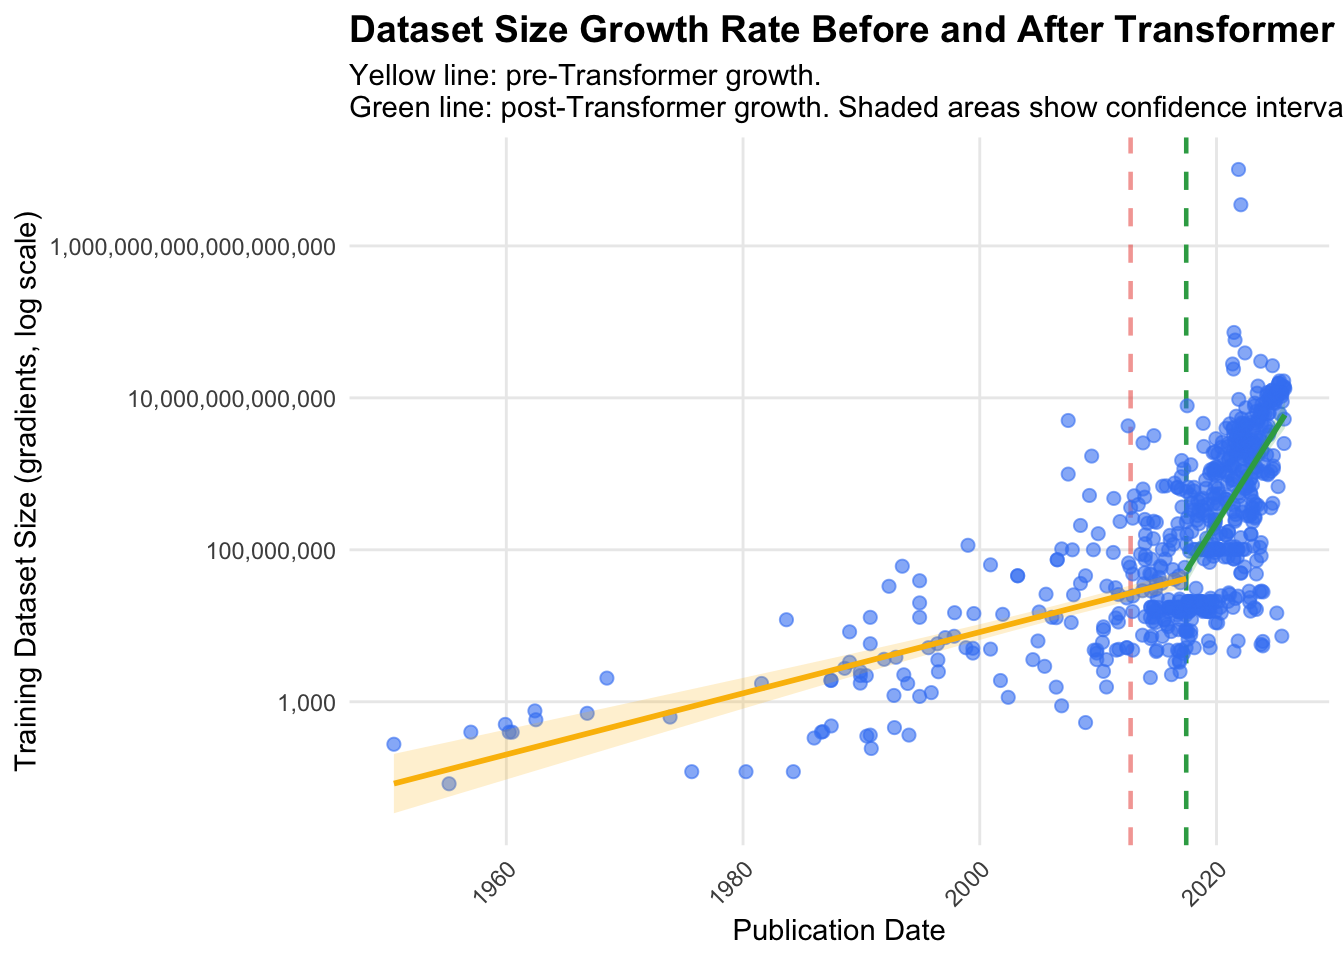
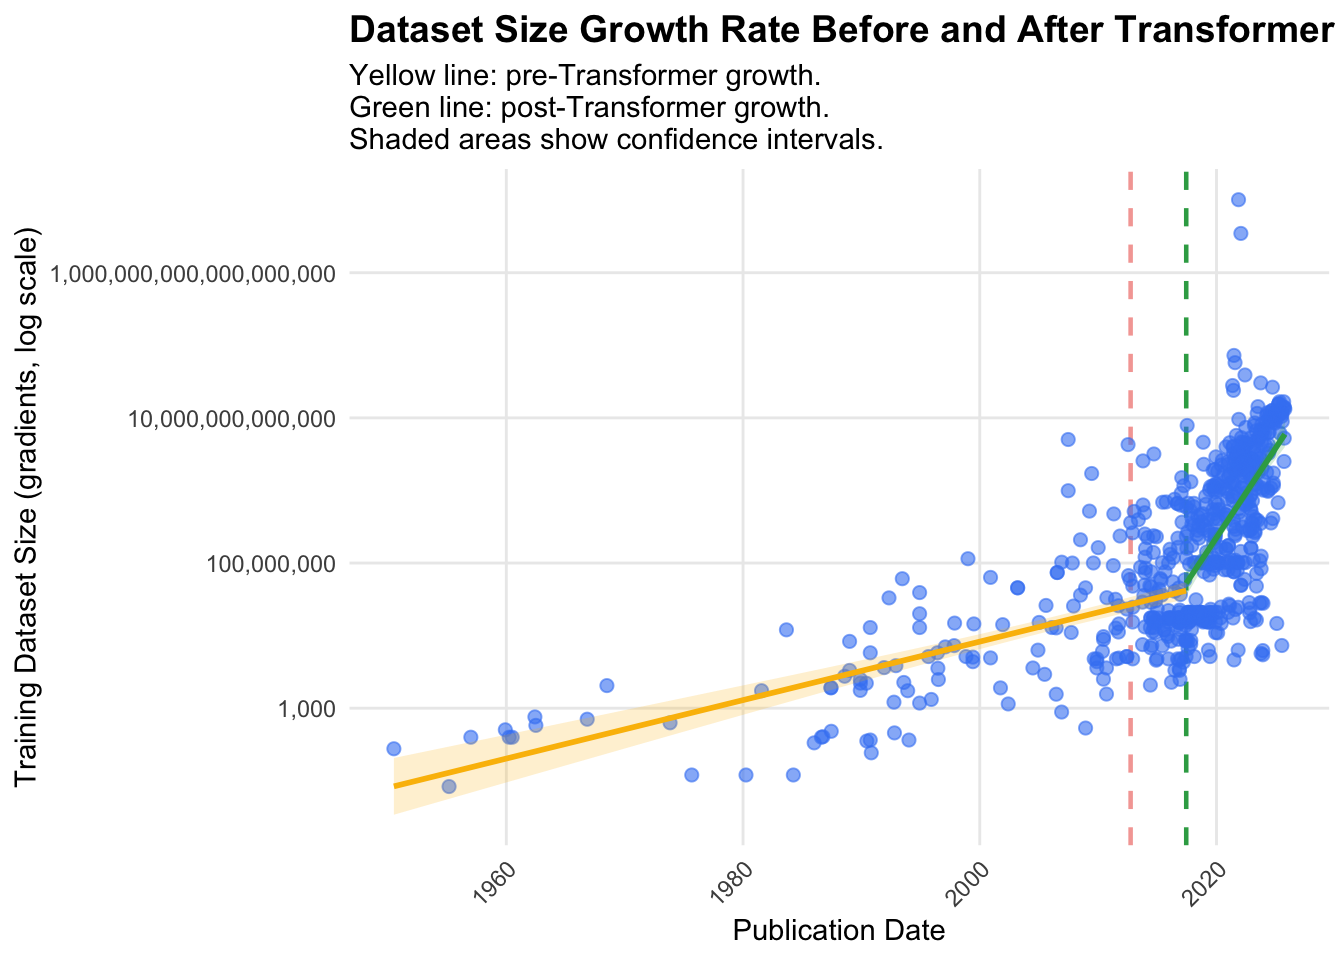
moving csv files into the correct place

diff --git a/docs/results.html b/docs/results.html
@@ -227,7 +227,7 @@ pre > code.sourceCode > span > a:first-child::before { text-decoration: underlin
 <summary>Code</summary>
 <div class="code-copy-outer-scaffold"><div class="sourceCode cell-code" id="cb1"><pre class="sourceCode r code-with-copy"><code class="sourceCode r"><span id="cb1-1"><a href="#cb1-1" aria-hidden="true" tabindex="-1"></a>compute_spend <span class="ot">&lt;-</span> <span class="fu">read_csv</span>(<span class="st">"./Data/ai_companies_dataset/ai_companies_compute_spend.csv"</span>)</span>
 <span id="cb1-2"><a href="#cb1-2" aria-hidden="true" tabindex="-1"></a></span>
-<span id="cb1-3"><a href="#cb1-3" aria-hidden="true" tabindex="-1"></a>usage_reports <span class="ot">&lt;-</span> <span class="fu">read_csv</span>(<span class="st">"ai_companies_usage_reports_clean.csv"</span>)</span>
+<span id="cb1-3"><a href="#cb1-3" aria-hidden="true" tabindex="-1"></a>usage_reports <span class="ot">&lt;-</span> <span class="fu">read_csv</span>(<span class="st">"./Data/ai_companies_usage_reports_clean.csv"</span>)</span>
 <span id="cb1-4"><a href="#cb1-4" aria-hidden="true" tabindex="-1"></a></span>
 <span id="cb1-5"><a href="#cb1-5" aria-hidden="true" tabindex="-1"></a><span class="co"># Create compute_stacked first</span></span>
 <span id="cb1-6"><a href="#cb1-6" aria-hidden="true" tabindex="-1"></a>compute_stacked <span class="ot">&lt;-</span> compute_spend <span class="sc">|&gt;</span></span>
@@ -249,7 +249,7 @@ pre > code.sourceCode > span > a:first-child::before { text-decoration: underlin
 <span id="cb1-22"><a href="#cb1-22" aria-hidden="true" tabindex="-1"></a>  dplyr<span class="sc">::</span><span class="fu">filter</span>(Company <span class="sc">==</span> <span class="st">"OpenAI"</span>,</span>
 <span id="cb1-23"><a href="#cb1-23" aria-hidden="true" tabindex="-1"></a>         Category <span class="sc">%in%</span> <span class="fu">c</span>(<span class="st">"Inference compute spend"</span>))</span>
 <span id="cb1-24"><a href="#cb1-24" aria-hidden="true" tabindex="-1"></a></span>
-<span id="cb1-25"><a href="#cb1-25" aria-hidden="true" tabindex="-1"></a>frontier_merged <span class="ot">&lt;-</span> <span class="fu">read_csv</span>(<span class="st">"./frontier_merged.csv"</span>)</span>
+<span id="cb1-25"><a href="#cb1-25" aria-hidden="true" tabindex="-1"></a>frontier_merged <span class="ot">&lt;-</span> <span class="fu">read_csv</span>(<span class="st">"./Data/frontier_merged.csv"</span>)</span>
 <span id="cb1-26"><a href="#cb1-26" aria-hidden="true" tabindex="-1"></a></span>
 <span id="cb1-27"><a href="#cb1-27" aria-hidden="true" tabindex="-1"></a>df_num <span class="ot">&lt;-</span> frontier_merged <span class="sc">|&gt;</span></span>
 <span id="cb1-28"><a href="#cb1-28" aria-hidden="true" tabindex="-1"></a>  <span class="fu">select</span>(<span class="fu">where</span>(is.numeric)) <span class="sc">|&gt;</span></span>
@@ -294,7 +294,7 @@ pre > code.sourceCode > span > a:first-child::before { text-decoration: underlin
 <span id="cb1-67"><a href="#cb1-67" aria-hidden="true" tabindex="-1"></a>  <span class="fu">slice_head</span>(<span class="at">n =</span> <span class="dv">6</span>) <span class="sc">|&gt;</span></span>
 <span id="cb1-68"><a href="#cb1-68" aria-hidden="true" tabindex="-1"></a>  <span class="fu">pull</span>(Country)</span>
 <span id="cb1-69"><a href="#cb1-69" aria-hidden="true" tabindex="-1"></a></span>
-<span id="cb1-70"><a href="#cb1-70" aria-hidden="true" tabindex="-1"></a>frontier_merged <span class="ot">&lt;-</span> <span class="fu">read_csv</span>(<span class="st">"./frontier_merged.csv"</span>)</span>
+<span id="cb1-70"><a href="#cb1-70" aria-hidden="true" tabindex="-1"></a>frontier_merged <span class="ot">&lt;-</span> <span class="fu">read_csv</span>(<span class="st">"./Data/frontier_merged.csv"</span>)</span>
 <span id="cb1-71"><a href="#cb1-71" aria-hidden="true" tabindex="-1"></a></span>
 <span id="cb1-72"><a href="#cb1-72" aria-hidden="true" tabindex="-1"></a>df_num <span class="ot">&lt;-</span> frontier_merged <span class="sc">|&gt;</span></span>
 <span id="cb1-73"><a href="#cb1-73" aria-hidden="true" tabindex="-1"></a>  <span class="fu">select</span>(<span class="fu">where</span>(is.numeric)) <span class="sc">|&gt;</span></span>
@@ -523,11 +523,11 @@ pre > code.sourceCode > span > a:first-child::before { text-decoration: underlin
 </div>
 </div>
 </div>
-<p>In this graph we visualize the date of model releases (dots) from different leading technolgy and AI companies. Overlayed as dashed lines, we plot the first operational date of GPU clusters from those same companies.</p>
+<p>In this graph we visualize the date of model releases (dots) from different leading technology and AI companies. Overlayed as dashed lines, we plot the first operational date of GPU clusters from those same companies.</p>
 <p>We would expect that model releases are delayed in comparison to GPU cluster opening dates since it would take significant computational resources to train a new model, usually several months of training for the largest models.</p>
 <p>However, we see varied trends across different companies. OpenAI, for example, had released many models before ever opening their first GPU cluster, while Google had many GPU clusters before releasing their first model.</p>
-<p>xAI (behind the Grok set of models) provides and intersting example of a clear cluster-to-model gap. The company seems to follow a very clear trend of having around a half-year delay between cluster opening and model release, with new models being released slightly before or slight after a new cluster becoming operational.</p>
-<p>Overall, the this plot reveals the strengths and weaknesses of different players in the AI ecosystem. Google, being a legacy tech company which has always required heavy computational resouces, already had many compute centers before releasing their first model. Alibaba follows a similar trend. On the other hand, an AI-first company like OpenAI likely had to outsource their model training compute to other companies before having their own clusters.</p>
+<p>xAI (behind the Grok set of models) provides an interesting example of a clear cluster-to-model gap. The company seems to follow a very clear trend of having around a half-year delay between cluster opening and model release, with new models being released slightly before or slight after a new cluster becoming operational.</p>
+<p>Overall, the this plot reveals the strengths and weaknesses of different players in the AI ecosystem. Google, being a legacy tech company which has always required heavy computational resources, already had many compute centers before releasing their first model. Alibaba follows a similar trend. On the other hand, an AI-first company like OpenAI likely had to outsource their model training compute to other companies before having their own clusters.</p>
 </section>
 <section id="cumulative-compute-over-time-by-organization" class="level3" data-number="3.2.2">
 <h3 data-number="3.2.2" class="anchored" data-anchor-id="cumulative-compute-over-time-by-organization"><span class="header-section-number">3.2.2</span> Cumulative Compute Over Time by Organization</h3>
@@ -698,7 +698,7 @@ pre > code.sourceCode > span > a:first-child::before { text-decoration: underlin
 </div>
 </div>
 </div>
-<p>Here plot plot notable companies and the increase in their available compute over time. First note that to improve readability of the graph, we free the y-axis. However, it seems like major companies have increased their compute nearly exponentially. As consitent with the previous graphs, cluster opening time do not follow a predictable pattern in terms of model release, though, generally, it seems like different companies take different approaches in either having built infrascture first or release models first.</p>
+<p>Here plot plot notable companies and the increase in their available compute over time. First note that to improve readability of the graph, we free the y-axis. However, it seems like major companies have increased their compute nearly exponentially. As consistent with the previous graphs, cluster opening time do not follow a predictable pattern in terms of model release, though, generally, it seems like different companies take different approaches in either having built infrastructure first or release models first.</p>
 <div class="cell">
 <details class="code-fold">
 <summary>Code</summary>
@@ -772,7 +772,7 @@ pre > code.sourceCode > span > a:first-child::before { text-decoration: underlin
 </section>
 <section id="dataset-size-over-time" class="level3" data-number="3.2.4">
 <h3 data-number="3.2.4" class="anchored" data-anchor-id="dataset-size-over-time"><span class="header-section-number">3.2.4</span> Dataset Size Over Time</h3>
-<p>Clearly, overall compute available to train model has been increasing at an exponential rate. However have the has this increase in compute been a proactive move to be prepared to train data-intensive models? Or has this been a reactive move in response to models that turned out to be more data intensive than expected?</p>
+<p>Clearly, overall compute available to train model has been increasing at an exponential rate. However has this increase in compute been a proactive move to be prepared to train data-intensive models? Or has this been a reactive move in response to models that turned out to be more data intensive than expected?</p>
 <p>To answer this question, we first need to look at trends in dataset size and model size.</p>
 <div class="cell">
 <details class="code-fold">
@@ -880,7 +880,7 @@ pre > code.sourceCode > span > a:first-child::before { text-decoration: underlin
 </div>
 </div>
 </div>
-<p>However, much of the demand for more data has been driven by new machine learning approaches. First, the advent of deep learning create demand for larger datasets. After, the advent of the transformer architecture allowed feasible training on even larger datasets (parly why large language models are considered “large”). As such, we add two dashed lines, the first being the landmark <a href="https://proceedings.neurips.cc/paper_files/paper/2012/file/c399862d3b9d6b76c8436e924a68c45b-Paper.pdf">AlexNet</a> paper, which ushered in a new era of deep learning critically, thorough the use of GPU training. The green dashed line represent the release of the landmark <a href="https://arxiv.org/abs/1706.03762">Attention Is All You Need</a> paper, which introduced the transformer architecture that underlies large language models today. Adding these seperators, we begin to more clearly see trends in the data. Notably, after the introduction of the transformer, we see a sharp increase in dataset size.</p>
+<p>However, much of the demand for more data has been driven by new machine learning approaches. First, the advent of deep learning create demand for larger datasets. After, the advent of the transformer architecture allowed feasible training on even larger datasets (partly why large language models are considered “large”). As such, we add two dashed lines, the first being the landmark <a href="https://proceedings.neurips.cc/paper_files/paper/2012/file/c399862d3b9d6b76c8436e924a68c45b-Paper.pdf">AlexNet</a> paper, which ushered in a new era of deep learning critically, thorough the use of GPU training. The green dashed line represent the release of the landmark <a href="https://arxiv.org/abs/1706.03762">Attention Is All You Need</a> paper, which introduced the transformer architecture that underlies large language models today. Adding these separators, we begin to more clearly see trends in the data. Notably, after the introduction of the transformer, we see a sharp increase in dataset size.</p>
 </section>
 <section id="dataset-size-growth-rate-before-and-after-transformer" class="level3" data-number="3.2.6">
 <h3 data-number="3.2.6" class="anchored" data-anchor-id="dataset-size-growth-rate-before-and-after-transformer"><span class="header-section-number">3.2.6</span> Dataset Size Growth Rate Before and After Transformer</h3>
@@ -940,7 +940,7 @@ pre > code.sourceCode > span > a:first-child::before { text-decoration: underlin
 <span id="cb17-51"><a href="#cb17-51" aria-hidden="true" tabindex="-1"></a>  <span class="co"># Labels and theme</span></span>
 <span id="cb17-52"><a href="#cb17-52" aria-hidden="true" tabindex="-1"></a>  <span class="fu">labs</span>(</span>
 <span id="cb17-53"><a href="#cb17-53" aria-hidden="true" tabindex="-1"></a>    <span class="at">title =</span> <span class="st">"Dataset Size Growth Rate Before and After Transformer"</span>,</span>
-<span id="cb17-54"><a href="#cb17-54" aria-hidden="true" tabindex="-1"></a>    <span class="at">subtitle =</span> <span class="st">"Yellow line: pre-Transformer growth.</span><span class="sc">\n</span><span class="st">Green line: post-Transformer growth. Shaded areas show confidence intervals."</span>,</span>
+<span id="cb17-54"><a href="#cb17-54" aria-hidden="true" tabindex="-1"></a>    <span class="at">subtitle =</span> <span class="st">"Yellow line: pre-Transformer growth.</span><span class="sc">\n</span><span class="st">Green line: post-Transformer growth.</span><span class="sc">\n</span><span class="st">Shaded areas show confidence intervals."</span>,</span>
 <span id="cb17-55"><a href="#cb17-55" aria-hidden="true" tabindex="-1"></a>    <span class="at">x =</span> <span class="st">"Publication Date"</span>,</span>
 <span id="cb17-56"><a href="#cb17-56" aria-hidden="true" tabindex="-1"></a>    <span class="at">y =</span> <span class="st">"Training Dataset Size (gradients, log scale)"</span></span>
 <span id="cb17-57"><a href="#cb17-57" aria-hidden="true" tabindex="-1"></a>  ) <span class="sc">+</span></span>
@@ -960,7 +960,7 @@ pre > code.sourceCode > span > a:first-child::before { text-decoration: underlin
 </div>
 </div>
 </div>
-<p>To further quantify the difference between the pre-transformer era and the post-transfomer era of AI, we add regression lines of our data before the transformer and after the transformer. We already see an exponential increase in dataset size before the transformer, as denoted by the yellow line. However, after the transformer, this increase becomes much sharper, as shown by the green line.</p>
+<p>To further quantify the difference between the pre-transformer era and the post-transformer era of AI, we add regression lines of our data before the transformer and after the transformer. We already see an exponential increase in dataset size before the transformer, as denoted by the yellow line. However, after the transformer, this increase becomes much sharper, as shown by the green line.</p>
 <p>By all accounts, dataset used to train ML models is experiencing lightning fast growth.</p>
 </section>
 <section id="model-parameters-over-time" class="level3" data-number="3.2.7">
@@ -1042,7 +1042,7 @@ pre > code.sourceCode > span > a:first-child::before { text-decoration: underlin
 </div>
 </div>
 </div>
-<p>In this plot we see a trend that follows almost exactly the same trend as the trends in dataset size. Untill the the transformer, parameter count is increase rapidly (exponentially, in fact) already, but once the transformer is introduced we start to see an even more rapid increase.</p>
+<p>In this plot we see a trend that follows almost exactly the same trend as the trends in dataset size. Until the the transformer, parameter count is increase rapidly (exponentially, in fact) already, but once the transformer is introduced we start to see an even more rapid increase.</p>
 </section>
 <section id="training-time-analysis" class="level3" data-number="3.2.8">
 <h3 data-number="3.2.8" class="anchored" data-anchor-id="training-time-analysis"><span class="header-section-number">3.2.8</span> Training Time Analysis</h3>
@@ -1072,7 +1072,7 @@ pre > code.sourceCode > span > a:first-child::before { text-decoration: underlin
 <span id="cb19-20"><a href="#cb19-20" aria-hidden="true" tabindex="-1"></a>  <span class="co"># Format x-axis dates</span></span>
 <span id="cb19-21"><a href="#cb19-21" aria-hidden="true" tabindex="-1"></a>  <span class="fu">scale_x_date</span>(<span class="at">date_breaks =</span> <span class="st">"2 years"</span>, <span class="at">date_labels =</span> <span class="st">"%Y"</span>) <span class="sc">+</span></span>
 <span id="cb19-22"><a href="#cb19-22" aria-hidden="true" tabindex="-1"></a>  <span class="fu">labs</span>(</span>
-<span id="cb19-23"><a href="#cb19-23" aria-hidden="true" tabindex="-1"></a>    <span class="at">title =</span> <span class="st">"Average Training Time for Top 10 Frontier Models on Rank-1 GPU Clusters"</span>,</span>
+<span id="cb19-23"><a href="#cb19-23" aria-hidden="true" tabindex="-1"></a>    <span class="at">title =</span> <span class="st">"Average Training Time for Top 10 Frontier Models</span><span class="sc">\n</span><span class="st">on Rank-1 GPU Clusters"</span>,</span>
 <span id="cb19-24"><a href="#cb19-24" aria-hidden="true" tabindex="-1"></a>    <span class="at">x =</span> <span class="st">"GPU Cluster First Operational Date"</span>,</span>
 <span id="cb19-25"><a href="#cb19-25" aria-hidden="true" tabindex="-1"></a>    <span class="at">y =</span> <span class="st">"Average Training Time (hours, log scale)"</span>,</span>
 <span id="cb19-26"><a href="#cb19-26" aria-hidden="true" tabindex="-1"></a>    <span class="at">caption =</span> <span class="st">"Based on top 10 frontier models by training compute released before each cluster's operational date"</span></span>
@@ -1093,7 +1093,7 @@ pre > code.sourceCode > span > a:first-child::before { text-decoration: underlin
 </div>
 </div>
 </div>
-<p>Here we plot the average training time in hours for the top 10 best models at the time of the first operational date of the best GPU cluster at the time of its opening. Simply put, we graph the training time of the best models on the best GPU cluster of the time. We see a really interesting trend here. If compute supply where to keep pace with compute demand, we would expect there to be no change in average training time. Instead, we see that in that in the early 2020s there is an exponential increase in the training time of best models (even using the best GPU cluster). However, nearning 2024 and 2025, we see that compute availability starts to catch up.</p>
+<p>Here we plot the average training time in hours for the top 10 best models at the time of the first operational date of the best GPU cluster at the time of its opening. Simply put, we graph the training time of the best models on the best GPU cluster of the time. We see a really interesting trend here. If compute supply where to keep pace with compute demand, we would expect there to be no change in average training time. Instead, we see that in that in the early 2020s there is an exponential increase in the training time of best models (even using the best GPU cluster). However, nearing 2024 and 2025, we see that compute availability starts to catch up.</p>
 </section>
 <section id="benchmarks" class="level3" data-number="3.2.9">
 <h3 data-number="3.2.9" class="anchored" data-anchor-id="benchmarks"><span class="header-section-number">3.2.9</span> Benchmarks</h3>
@@ -1232,7 +1232,7 @@ Cumulative Proportion  1.000e+00 1.00e+00 1.000e+00 1.000e+00</code></pre>
 </section>
 <section id="gpu-cluster-geographic-distribution" class="level3" data-number="3.2.10">
 <h3 data-number="3.2.10" class="anchored" data-anchor-id="gpu-cluster-geographic-distribution"><span class="header-section-number">3.2.10</span> GPU Cluster Geographic Distribution</h3>
-<p>Clearly, AI developers are prioritizing increasing their compute capacity as evident by the exponential increase in compute capacity that every major AI-developing company has experienced. Naturally, the construction and operation of these GPU clusters will have huge effects in the communties they are built, their governance will be influenced by their location, and localities with more compute capacity will have more leverage on growing tech and companies. To explore this further, we map the number of GPU clusters per country.</p>
+<p>Clearly, AI developers are prioritizing increasing their compute capacity as evident by the exponential increase in compute capacity that every major AI-developing company has experienced. Naturally, the construction and operation of these GPU clusters will have huge effects in the communities they are built, their governance will be influenced by their location, and localities with more compute capacity will have more leverage on growing tech and companies. To explore this further, we map the number of GPU clusters per country.</p>
 <div class="cell">
 <details class="code-fold">
 <summary>Code</summary>
@@ -1416,7 +1416,7 @@ Cumulative Proportion  1.000e+00 1.00e+00 1.000e+00 1.000e+00</code></pre>
 </div>
 </div>
 </div>
-<p>Combining existing and planned GPU cluster maps, we see that the countries that have previously benefitted from AI development and GPU cluster development (namely the US and China) will continue to be the countries that benefit from furter development, while most of the rest of the world sees lagging development.</p>
+<p>Combining existing and planned GPU cluster maps, we see that the countries that have previously benefitted from AI development and GPU cluster development (namely the US and China) will continue to be the countries that benefit from further development, while most of the rest of the world sees lagging development.</p>
 
 
 </section>
